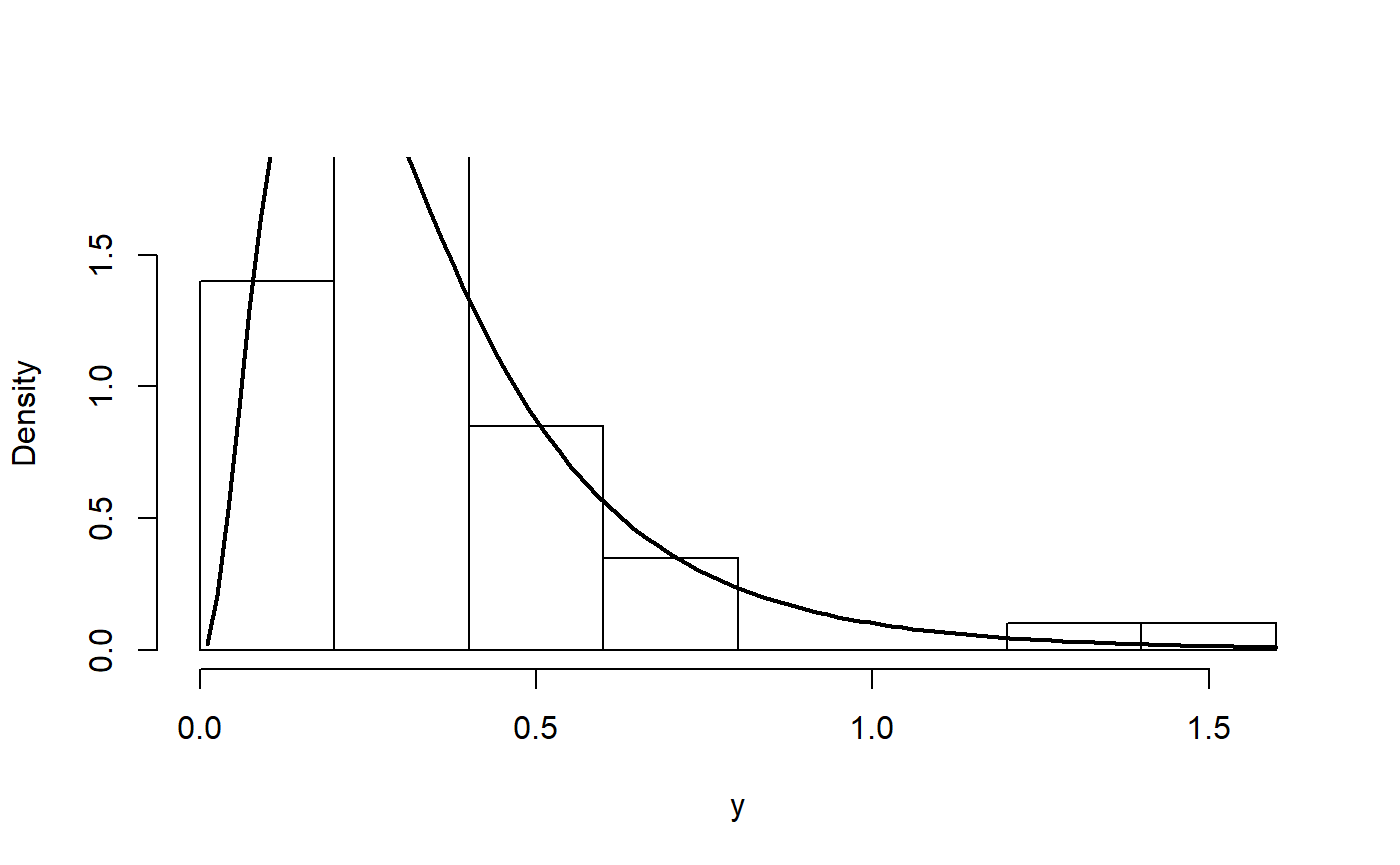
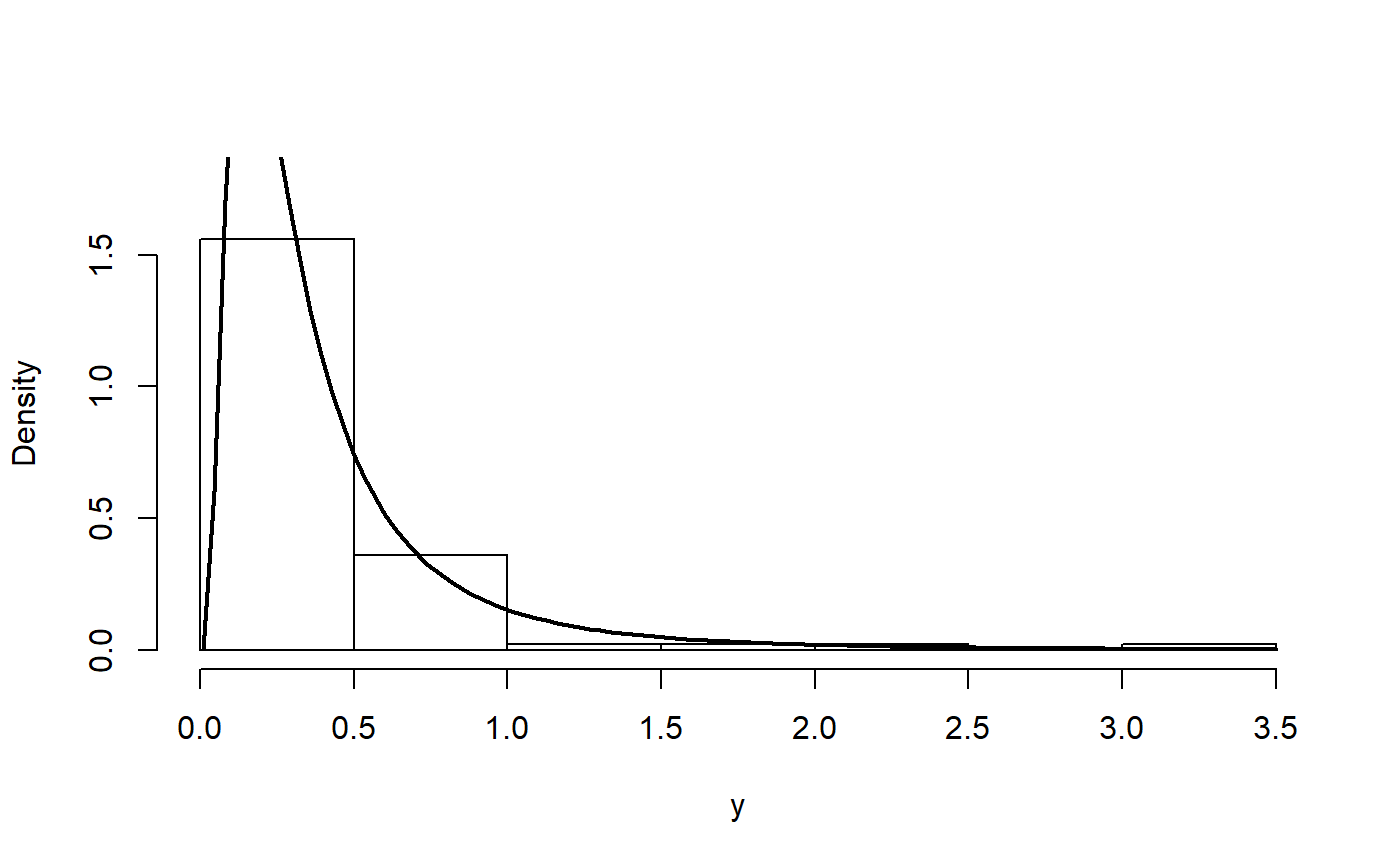
Documentación actualizada.

diff --git a/docs/articles/EW_distribution.html b/docs/articles/EW_distribution.html
@@ -59,7 +59,7 @@
       <a href="../articles/FWE_distribution.html">FWE distribution</a>
     </li>
     <li>
-      <a href="../articles/OW_distribution.html">OddW distribution</a>
+      <a href="../articles/OW_distribution.html">OW distribution</a>
     </li>
   </ul>
 </li>
@@ -197,17 +197,18 @@ mod &lt;-<span class="st"> </span><span class="kw">gamlss</span>(y<span class="o
 <div class="sourceCode"><pre class="sourceCode r"><code class="sourceCode r">y &lt;-<span class="st"> </span><span class="kw"><a href="../reference/dEW.html">rEW</a></span>(<span class="dt">n=</span><span class="dv">100</span>, <span class="dt">mu=</span><span class="dv">5</span>, <span class="dt">sigma=</span><span class="fl">0.5</span>, <span class="dt">nu=</span><span class="dv">10</span>)</code></pre></div>
 <p>Now we use the <code>gamlss</code> function from <strong>gamlss</strong> package to estimate the parameters.</p>
 <div class="sourceCode"><pre class="sourceCode r"><code class="sourceCode r">mod &lt;-<span class="st"> </span><span class="kw">gamlss</span>(y<span class="op">~</span><span class="dv">1</span>, <span class="dt">sigma.fo=</span><span class="op">~</span><span class="dv">1</span>, <span class="dt">nu.fo=</span><span class="op">~</span><span class="dv">1</span>, <span class="dt">family=</span><span class="st">'EW'</span>,
-              <span class="dt">control=</span><span class="kw">gamlss.control</span>(<span class="dt">n.cyc=</span><span class="dv">250</span>, <span class="dt">trace=</span><span class="ot">FALSE</span>))</code></pre></div>
+              <span class="dt">control=</span><span class="kw">gamlss.control</span>(<span class="dt">n.cyc=</span><span class="dv">250</span>, <span class="dt">trace=</span><span class="ot">FALSE</span>))
+## Warning in RS(): Algorithm RS has not yet converged</code></pre></div>
 <p>To obtain the fitted values for <span class="math inline">\(\mu\)</span>, <span class="math inline">\(\sigma\)</span> and <span class="math inline">\(\nu\)</span> we use the inverse link function <span class="math inline">\(\log()\)</span>.</p>
 <div class="sourceCode"><pre class="sourceCode r"><code class="sourceCode r"><span class="kw"><a href="https://www.rdocumentation.org/packages/base/topics/Log">exp</a></span>(<span class="kw"><a href="https://www.rdocumentation.org/packages/stats/topics/coef">coef</a></span>(mod, <span class="dt">what=</span><span class="st">'mu'</span>))
 ## (Intercept) 
-##    5.287367
+##    6.232216
 <span class="kw"><a href="https://www.rdocumentation.org/packages/base/topics/Log">exp</a></span>(<span class="kw"><a href="https://www.rdocumentation.org/packages/stats/topics/coef">coef</a></span>(mod, <span class="dt">what=</span><span class="st">'sigma'</span>))
 ## (Intercept) 
-##    0.746642
+##   0.3475156
 <span class="kw"><a href="https://www.rdocumentation.org/packages/base/topics/Log">exp</a></span>(<span class="kw"><a href="https://www.rdocumentation.org/packages/stats/topics/coef">coef</a></span>(mod, <span class="dt">what=</span><span class="st">'nu'</span>))
 ## (Intercept) 
-##    5.202052</code></pre></div>
+##    38.87916</code></pre></div>
 <p>The results show that estimated parameters are close to the true parameters <span class="math inline">\(\mu\)</span>, <span class="math inline">\(\sigma\)</span> and <span class="math inline">\(\nu\)</span>.</p>
 <p>In the next figure we have the histogram for the data and the fitted density. We note that the fitted density explains better the observed data.</p>
 <div class="sourceCode"><pre class="sourceCode r"><code class="sourceCode r"><span class="kw"><a href="https://www.rdocumentation.org/packages/graphics/topics/hist">hist</a></span>(y, <span class="dt">freq=</span><span class="ot">FALSE</span>, <span class="dt">main=</span><span class="st">''</span>, <span class="dt">ylim=</span><span class="kw"><a href="https://www.rdocumentation.org/packages/base/topics/c">c</a></span>(<span class="dv">0</span>, <span class="fl">1.8</span>))
@@ -293,13 +294,13 @@ y &lt;-<span class="st"> </span><span class="kw"><a href="../reference/dEW.html"
 <p>and the results can be found with</p>
 <div class="sourceCode"><pre class="sourceCode r"><code class="sourceCode r"><span class="kw"><a href="https://www.rdocumentation.org/packages/stats/topics/coef">coef</a></span>(mod, <span class="dt">what=</span><span class="st">"mu"</span>)
 ## (Intercept)          x1 
-##    1.895809   -2.667138
+##    1.950567   -1.847813
 <span class="kw"><a href="https://www.rdocumentation.org/packages/stats/topics/coef">coef</a></span>(mod, <span class="dt">what=</span><span class="st">"sigma"</span>)
 ## (Intercept)          x2 
-##    2.868427   -1.936705
+##    2.518130   -2.006171
 <span class="kw"><a href="https://www.rdocumentation.org/packages/stats/topics/coef">coef</a></span>(mod, <span class="dt">what=</span><span class="st">"nu"</span>)
 ## (Intercept) 
-##   0.8522287</code></pre></div>
+##    1.889051</code></pre></div>
 <p>We note that the estimated parameters are close to the true parameter vector <span class="math inline">\(\boldsymbol{\theta} = (2, -3, 3, -2, 2)^\top\)</span>.</p>
 </div>
   </div>

diff --git a/docs/articles/FWE_distribution.html b/docs/articles/FWE_distribution.html
@@ -59,7 +59,7 @@
       <a href="../articles/FWE_distribution.html">FWE distribution</a>
     </li>
     <li>
-      <a href="../articles/OW_distribution.html">OddW distribution</a>
+      <a href="../articles/OW_distribution.html">OW distribution</a>
     </li>
   </ul>
 </li>
@@ -153,10 +153,10 @@ mod &lt;-<span class="st"> </span><span class="kw">gamlss</span>(y<span class="o
 <p>To obtain the fitted values for <span class="math inline">\(\mu\)</span> and <span class="math inline">\(\sigma\)</span> we use the inverse link function <span class="math inline">\(\log()\)</span>.</p>
 <div class="sourceCode"><pre class="sourceCode r"><code class="sourceCode r"><span class="kw"><a href="https://www.rdocumentation.org/packages/base/topics/Log">exp</a></span>(<span class="kw"><a href="https://www.rdocumentation.org/packages/stats/topics/coef">coef</a></span>(mod, <span class="dt">what=</span><span class="st">'mu'</span>))
 ## (Intercept) 
-##   0.7273476
+##   0.8219438
 <span class="kw"><a href="https://www.rdocumentation.org/packages/base/topics/Log">exp</a></span>(<span class="kw"><a href="https://www.rdocumentation.org/packages/stats/topics/coef">coef</a></span>(mod, <span class="dt">what=</span><span class="st">'sigma'</span>))
 ## (Intercept) 
-##   0.4537118</code></pre></div>
+##   0.4797442</code></pre></div>
 <p>The results show that estimated parameters are close to the true parameters <span class="math inline">\(\mu\)</span> and <span class="math inline">\(\sigma\)</span>.</p>
 <p>In the next figure we have the histogram for the data and the fitted density. We note that the fitted density explains better the observed data.</p>
 <div class="sourceCode"><pre class="sourceCode r"><code class="sourceCode r"><span class="kw"><a href="https://www.rdocumentation.org/packages/graphics/topics/hist">hist</a></span>(y, <span class="dt">freq=</span><span class="ot">FALSE</span>, <span class="dt">breaks=</span><span class="dv">10</span>, <span class="dt">ylim=</span><span class="kw"><a href="https://www.rdocumentation.org/packages/base/topics/c">c</a></span>(<span class="dv">0</span>, <span class="fl">1.5</span>), <span class="dt">las=</span><span class="dv">1</span>, <span class="dt">main=</span><span class="st">''</span>)
@@ -189,10 +189,10 @@ y &lt;-<span class="st"> </span><span class="kw"><a href="../reference/dFWE.html
 <p>and the results can be found with</p>
 <div class="sourceCode"><pre class="sourceCode r"><code class="sourceCode r"><span class="kw"><a href="https://www.rdocumentation.org/packages/stats/topics/coef">coef</a></span>(mod, <span class="dt">what=</span><span class="st">"mu"</span>)
 ## (Intercept)          x1 
-##    1.250439   -2.960097
+##    1.188952   -2.895193
 <span class="kw"><a href="https://www.rdocumentation.org/packages/stats/topics/coef">coef</a></span>(mod, <span class="dt">what=</span><span class="st">"sigma"</span>)
 ## (Intercept)          x2 
-##    1.249854   -1.849179</code></pre></div>
+##    1.265442   -1.957946</code></pre></div>
 <p>We note that the estimated parameters are close to the true parameter vector <span class="math inline">\(\boldsymbol{\theta} = (1.21, -3, 1.26, -2)^\top\)</span>.</p>
 </div>
   </div>

diff --git a/docs/articles/OW_distribution.html b/docs/articles/OW_distribution.html
@@ -5,11 +5,11 @@
 <meta charset="utf-8">
 <meta http-equiv="X-UA-Compatible" content="IE=edge">
 <meta name="viewport" content="width=device-width, initial-scale=1.0">
-<title>OddW distribution • RelDists</title>
+<title>OW distribution • RelDists</title>
 <!-- jquery --><script src="https://cdnjs.cloudflare.com/ajax/libs/jquery/3.3.1/jquery.min.js" integrity="sha256-FgpCb/KJQlLNfOu91ta32o/NMZxltwRo8QtmkMRdAu8=" crossorigin="anonymous"></script><!-- Bootstrap --><link rel="stylesheet" href="https://cdnjs.cloudflare.com/ajax/libs/twitter-bootstrap/3.3.7/css/bootstrap.min.css" integrity="sha256-916EbMg70RQy9LHiGkXzG8hSg9EdNy97GazNG/aiY1w=" crossorigin="anonymous">
 <script src="https://cdnjs.cloudflare.com/ajax/libs/twitter-bootstrap/3.3.7/js/bootstrap.min.js" integrity="sha256-U5ZEeKfGNOja007MMD3YBI0A3OSZOQbeG6z2f2Y0hu8=" crossorigin="anonymous"></script><!-- Font Awesome icons --><link rel="stylesheet" href="https://cdnjs.cloudflare.com/ajax/libs/font-awesome/4.7.0/css/font-awesome.min.css" integrity="sha256-eZrrJcwDc/3uDhsdt61sL2oOBY362qM3lon1gyExkL0=" crossorigin="anonymous">
 <!-- clipboard.js --><script src="https://cdnjs.cloudflare.com/ajax/libs/clipboard.js/2.0.4/clipboard.min.js" integrity="sha256-FiZwavyI2V6+EXO1U+xzLG3IKldpiTFf3153ea9zikQ=" crossorigin="anonymous"></script><!-- sticky kit --><script src="https://cdnjs.cloudflare.com/ajax/libs/sticky-kit/1.1.3/sticky-kit.min.js" integrity="sha256-c4Rlo1ZozqTPE2RLuvbusY3+SU1pQaJC0TjuhygMipw=" crossorigin="anonymous"></script><!-- pkgdown --><link href="../pkgdown.css" rel="stylesheet">
-<script src="../pkgdown.js"></script><meta property="og:title" content="OddW distribution">
+<script src="../pkgdown.js"></script><meta property="og:title" content="OW distribution">
 <meta property="og:description" content="">
 <meta name="twitter:card" content="summary">
 <!-- mathjax --><script src="https://cdnjs.cloudflare.com/ajax/libs/mathjax/2.7.5/MathJax.js" integrity="sha256-nvJJv9wWKEm88qvoQl9ekL2J+k/RWIsaSScxxlsrv8k=" crossorigin="anonymous"></script><script src="https://cdnjs.cloudflare.com/ajax/libs/mathjax/2.7.5/config/TeX-AMS-MML_HTMLorMML.js" integrity="sha256-84DKXVJXs0/F8OTMzX4UR909+jtl4G7SPypPavF+GfA=" crossorigin="anonymous"></script><!--[if lt IE 9]>
@@ -59,7 +59,7 @@
       <a href="../articles/FWE_distribution.html">FWE distribution</a>
     </li>
     <li>
-      <a href="../articles/OW_distribution.html">OddW distribution</a>
+      <a href="../articles/OW_distribution.html">OW distribution</a>
     </li>
   </ul>
 </li>
@@ -76,7 +76,7 @@
       </header><div class="row">
   <div class="col-md-9 contents">
     <div class="page-header toc-ignore">
-      <h1>OddW distribution</h1>
+      <h1>OW distribution</h1>
             
             <h4 class="date">2019-02-14</h4>
       

diff --git a/docs/articles/index.html b/docs/articles/index.html
@@ -89,7 +89,7 @@
       <a href="../articles/FWE_distribution.html">FWE distribution</a>
     </li>
     <li>
-      <a href="../articles/OW_distribution.html">OddW distribution</a>
+      <a href="../articles/OW_distribution.html">OW distribution</a>
     </li>
   </ul>
 </li>
@@ -119,7 +119,7 @@
       <ul>
         <li><a href="EW_distribution.html">EW distribution</a></li>
         <li><a href="FWE_distribution.html">FWE distribution</a></li>
-        <li><a href="OW_distribution.html">OddW distribution</a></li>
+        <li><a href="OW_distribution.html">OW distribution</a></li>
       </ul>
     </div>
   </div>

diff --git a/docs/reference/dKW.html b/docs/reference/dKW.html
@@ -94,7 +94,7 @@ with parameters mu, sigma, nu and tau." />
       <a href="../articles/FWE_distribution.html">FWE distribution</a>
     </li>
     <li>
-      <a href="../articles/OW_distribution.html">OddW distribution</a>
+      <a href="../articles/OW_distribution.html">OW distribution</a>
     </li>
   </ul>
 </li>

diff --git a/docs/reference/dEW.html b/docs/reference/dEW.html
@@ -94,7 +94,7 @@ parameters mu, sigma and nu." />
       <a href="../articles/FWE_distribution.html">FWE distribution</a>
     </li>
     <li>
-      <a href="../articles/OW_distribution.html">OddW distribution</a>
+      <a href="../articles/OW_distribution.html">OW distribution</a>
     </li>
   </ul>
 </li>

diff --git a/docs/reference/dOW.html b/docs/reference/dOW.html
@@ -94,7 +94,7 @@ parameters mu, sigma and nu." />
       <a href="../articles/FWE_distribution.html">FWE distribution</a>
     </li>
     <li>
-      <a href="../articles/OW_distribution.html">OddW distribution</a>
+      <a href="../articles/OW_distribution.html">OW distribution</a>
     </li>
   </ul>
 </li>

diff --git a/docs/reference/dFWE.html b/docs/reference/dFWE.html
@@ -94,7 +94,7 @@ parameters mu and sigma." />
       <a href="../articles/FWE_distribution.html">FWE distribution</a>
     </li>
     <li>
-      <a href="../articles/OW_distribution.html">OddW distribution</a>
+      <a href="../articles/OW_distribution.html">OW distribution</a>
     </li>
   </ul>
 </li>

diff --git a/docs/reference/dIW.html b/docs/reference/dIW.html
@@ -94,7 +94,7 @@ parameters mu and sigma." />
       <a href="../articles/FWE_distribution.html">FWE distribution</a>
     </li>
     <li>
-      <a href="../articles/OW_distribution.html">OddW distribution</a>
+      <a href="../articles/OW_distribution.html">OW distribution</a>
     </li>
   </ul>
 </li>

diff --git a/docs/reference/EW.html b/docs/reference/EW.html
@@ -92,7 +92,7 @@
       <a href="../articles/FWE_distribution.html">FWE distribution</a>
     </li>
     <li>
-      <a href="../articles/OW_distribution.html">OddW distribution</a>
+      <a href="../articles/OW_distribution.html">OW distribution</a>
     </li>
   </ul>
 </li>

diff --git a/docs/reference/FWE.html b/docs/reference/FWE.html
@@ -92,7 +92,7 @@
       <a href="../articles/FWE_distribution.html">FWE distribution</a>
     </li>
     <li>
-      <a href="../articles/OW_distribution.html">OddW distribution</a>
+      <a href="../articles/OW_distribution.html">OW distribution</a>
     </li>
   </ul>
 </li>

diff --git a/docs/reference/index.html b/docs/reference/index.html
@@ -89,7 +89,7 @@
       <a href="../articles/FWE_distribution.html">FWE distribution</a>
     </li>
     <li>
-      <a href="../articles/OW_distribution.html">OddW distribution</a>
+      <a href="../articles/OW_distribution.html">OW distribution</a>
     </li>
   </ul>
 </li>
